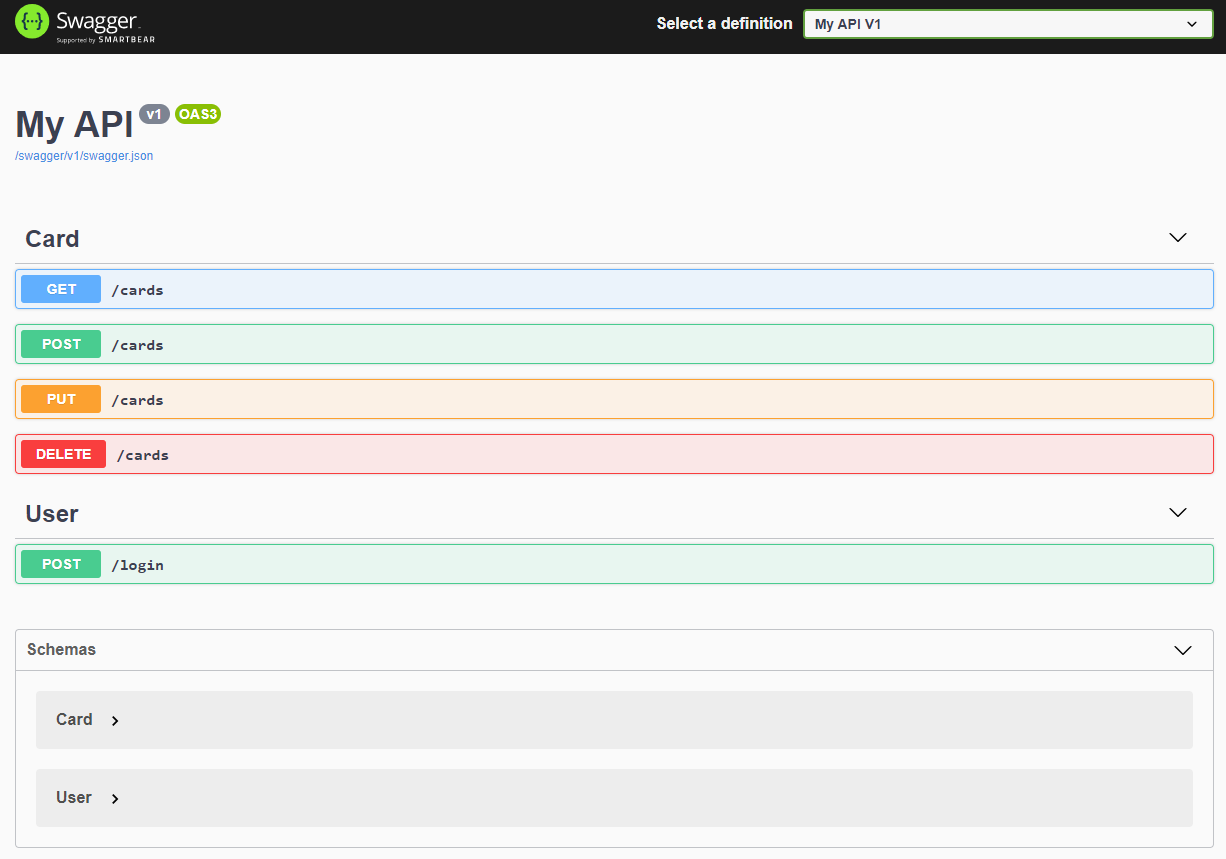
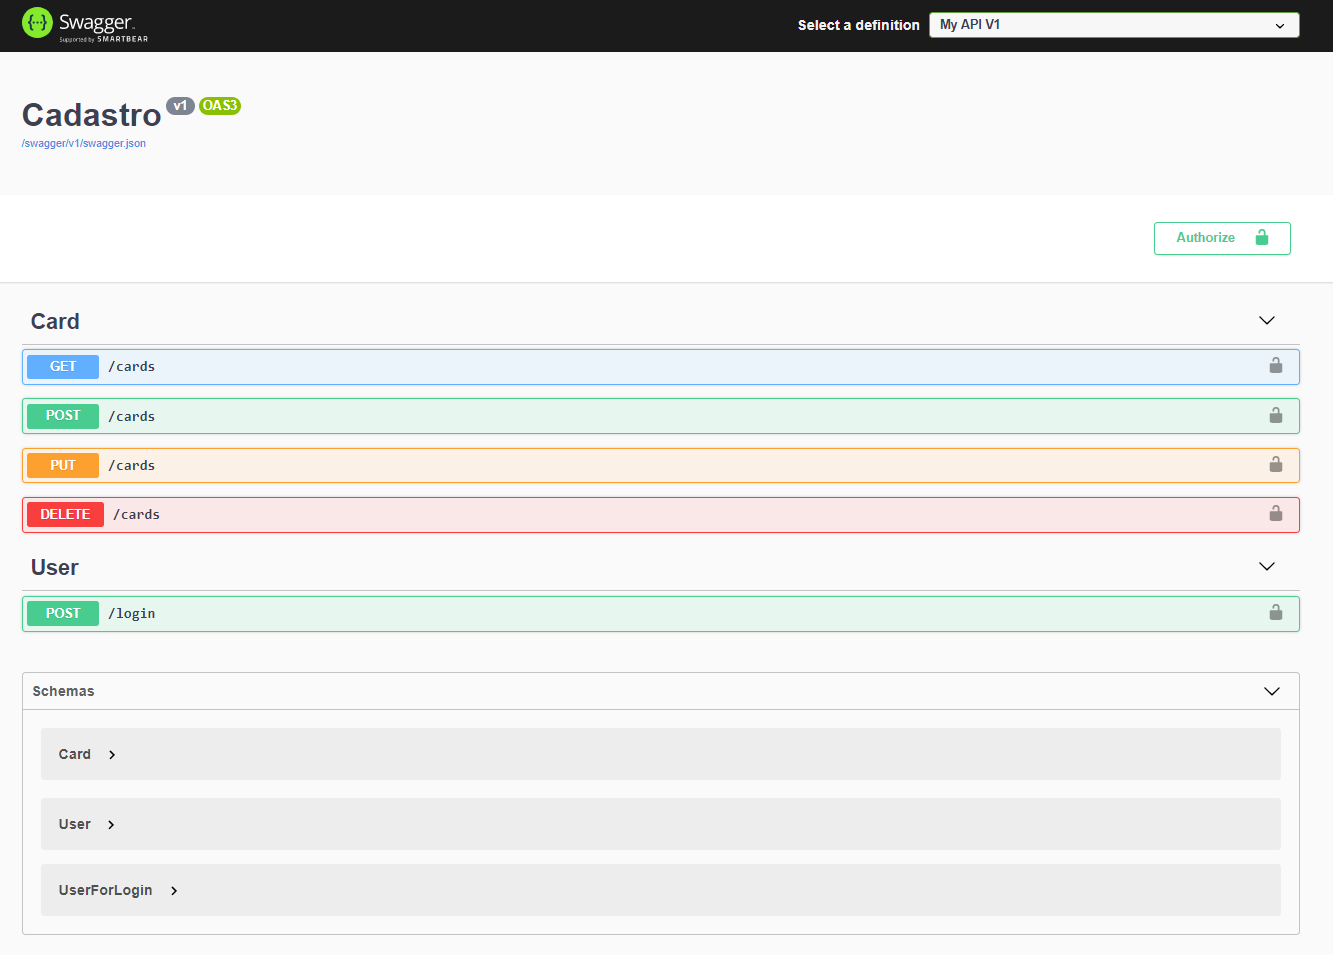
Incluindo autenticacao com JWT

diff --git a/BACK/Kanban/Startup.cs b/BACK/Kanban/Startup.cs
@@ -9,8 +9,11 @@ using Microsoft.AspNetCore.Mvc;
 using Microsoft.Extensions.Configuration;
 using Microsoft.Extensions.DependencyInjection;
 using Microsoft.Extensions.Hosting;
-using Microsoft.Extensions.Logging;
 using Microsoft.OpenApi.Models;
+using Microsoft.AspNetCore.Authentication.JwtBearer;
+using Kanban.Data;
+using System.Text;
+using Microsoft.IdentityModel.Tokens;
 
 namespace Kanban
 {
@@ -26,14 +29,65 @@ namespace Kanban
         // This method gets called by the runtime. Use this method to add services to the container.
         public void ConfigureServices(IServiceCollection services)
         {
+           
             services.AddControllers();
+            services.AddScoped<AuthRepository>();
 
+            
+          
                 // Register the Swagger generator, defining 1 or more Swagger documents
-            services.AddSwaggerGen(c =>
-            {
-                c.SwaggerDoc("v1", new OpenApiInfo { Title = "My API", Version = "v1" });
+            services.AddAuthentication (JwtBearerDefaults.AuthenticationScheme)
+                .AddJwtBearer (options => 
+                {
+                   options.TokenValidationParameters = new TokenValidationParameters
+                    {
+                        ValidateIssuerSigningKey = true,
+                        IssuerSigningKey = new SymmetricSecurityKey(Encoding.UTF8.GetBytes (Configuration["SecurityKey"])),
+                        ValidateIssuer = false,
+                        ValidateAudience = false
+                    };
+                    
+
+                    options.Events = new JwtBearerEvents {
+                        OnAuthenticationFailed = context => {
+                                Console.WriteLine ("Token inválido..:. " + context.Exception.Message);
+                                return Task.CompletedTask;
+                            },
+                            OnTokenValidated = context => {
+                                Console.WriteLine ("Toekn válido...: " + context.SecurityToken);
+                                return Task.CompletedTask;
+                            }
+                    };
+                });
+
+            services.AddMvc ().SetCompatibilityVersion (CompatibilityVersion.Version_2_2);
+            // Register the Swagger generator, defining 1 or more Swagger documents
+            services.AddSwaggerGen (c => {
+                c.SwaggerDoc ("v1", new OpenApiInfo { Title = "Cadastro", Version = "v1" });
+                // Define the OAuth2.0 scheme that's in use (i.e. Implicit Flow)
+                c.AddSecurityDefinition ("Bearer", new OpenApiSecurityScheme {
+                    Description = "JWT Authorization header using the Bearer scheme.",
+                        Name = "Authorization",
+                        In = ParameterLocation.Header,
+                        Type = SecuritySchemeType.ApiKey,
+                        Scheme = "bearer"
+                });
+
+                c.AddSecurityRequirement (new OpenApiSecurityRequirement {
+                    {
+                        new OpenApiSecurityScheme {
+                            Reference = new OpenApiReference {
+                                Type = ReferenceType.SecurityScheme,
+                                    Id = "Bearer"
+                            }
+                        }, new List<string> ()
+                    }
+                });
+
             });
         }
+
+        
 
         // This method gets called by the runtime. Use this method to configure the HTTP request pipeline.
         public void Configure(IApplicationBuilder app, IWebHostEnvironment env)
@@ -55,6 +109,8 @@ namespace Kanban
             app.UseHttpsRedirection();
 
             app.UseRouting();
+            
+            app.UseAuthentication ();
 
             app.UseAuthorization();
 

diff --git a/BACK/Kanban/Controllers/UserController.cs b/BACK/Kanban/Controllers/UserController.cs
@@ -1,18 +1,71 @@
-using System.Threading.Tasks;
-using Microsoft.AspNetCore.Mvc;
-using Kanban.Models;
 using System;
+using System.Security.Claims;
+using System.Threading.Tasks;
+using System.IdentityModel.Tokens.Jwt;
+using Microsoft.IdentityModel.Tokens;
+using Kanban.Models;
+using Microsoft.AspNetCore.Mvc;
+using Microsoft.Extensions.Configuration;
+using System.Text;
+using System.Collections.Generic;
+using Kanban.Data;
+using Kanban.Dto;
 
-namespace Kanban.Controllers
-{   
+namespace Kanban.Controllers {
+    
     [Route ("/login")]
     [ApiController]
-    public class UserController
-    {
-                [HttpPost]
-        public async Task<ActionResult<User>> Post ([FromBody] User value) {
-            return value;
+    public class UserController : ControllerBase {
+
+        private readonly IConfiguration _config;
+        private readonly AuthRepository _repository;
+
+        public UserController (IConfiguration config , AuthRepository repository) {
+            this._repository = repository;          
+            this._config = config;
         }
-        
+        [HttpPost]
+        public async Task<ActionResult<User>> Post ([FromBody] UserForLogin value) {
+
+            var result = await _repository.Login (value.login, value.senha);
+
+            var userToCreate = new User {
+                login = value.login,
+                senha = value.senha,
+                Id = 1
+            };
+            if (result.login == userToCreate.login && result.senha == userToCreate.senha ) {
+                return Ok (new {
+                    token = GenerateJwtToken (userToCreate).Result
+                });
+            }
+
+            return Unauthorized ();
+          
+        }
+
+        private async Task<string> GenerateJwtToken (User user) {
+            var claims = new List<Claim> {
+                new Claim (ClaimTypes.NameIdentifier, user.Id.ToString ()),
+                new Claim (ClaimTypes.Name, user.login)
+            };
+
+            var key = new SymmetricSecurityKey (Encoding.UTF8
+                .GetBytes (_config.GetSection ("SecurityKey").Value));
+
+            var creds = new SigningCredentials (key, SecurityAlgorithms.HmacSha512Signature);
+
+            var tokenDescriptor = new SecurityTokenDescriptor {
+                Subject = new ClaimsIdentity (claims),
+                Expires = DateTime.Now.AddDays (1),
+                SigningCredentials = creds
+            };
+
+            var tokenHandler = new JwtSecurityTokenHandler ();
+
+            var token = tokenHandler.CreateToken (tokenDescriptor);
+
+            return tokenHandler.WriteToken (token);
+        }
     }
 }

diff --git a/BACK/Kanban/Data/AuthRepository.cs b/BACK/Kanban/Data/AuthRepository.cs
@@ -1,0 +1,44 @@
+using System.Threading.Tasks;
+using Kanban.Models;
+
+namespace Kanban.Data
+{
+    public class AuthRepository :   IAuthRepository
+    {
+       /* private readonly DataContext _context;
+        public AuthRepository(DataContext context)
+        {
+            _context = context;
+        }*/
+        public async Task<User> Login(string username, string password)
+        {
+           /* var user = await _context.Users.FirstOrDefaultAsync(x => x.UserName == username);
+
+            if (user == null)
+                return null;
+            
+            // if (!VerifyPasswordHash(password, user.PasswordHash, user.PasswordSalt))
+            //     return null;
+
+            return user;*/
+            //  { "login" : "letscode", "senha":"lets@123" }
+             return new User {
+                login = "letscode",
+                senha = "lets@123"
+            };
+        }
+    
+            public async Task<User> Register(User username, string password)
+        {
+
+             return new User {
+                login = "letscode",
+                senha = "lets@123"
+            };
+        }
+        public async Task<bool> UserExists(string username)
+        {
+            return true;
+        }
+    }
+}

diff --git a/BACK/Kanban/Data/IAuthRepository.cs b/BACK/Kanban/Data/IAuthRepository.cs
@@ -1,0 +1,11 @@
+using System.Threading.Tasks;
+using Kanban.Models;
+
+namespace Kanban.Data {
+
+    public interface IAuthRepository {
+        Task<User> Register (User user, string password);
+        Task<User> Login (string username, string password);
+        Task<bool> UserExists (string username);
+    }
+}

diff --git a/BACK/Kanban/Models/User.cs b/BACK/Kanban/Models/User.cs
@@ -1,6 +1,8 @@
+using Microsoft.AspNetCore.Identity;
+
 namespace Kanban.Models
 {
-    public class User
+    public class User : IdentityUser<int>
     {
         public string login { get; set; }
 

diff --git a/BACK/Kanban/Dto/UserForLogin.cs b/BACK/Kanban/Dto/UserForLogin.cs
@@ -1,0 +1,9 @@
+namespace Kanban.Dto
+{
+    public class UserForLogin
+    {
+        public string login { get; set; }
+
+        public string senha { get; set; }
+    }
+}

diff --git a/BACK/Kanban/Controllers/CardController.cs b/BACK/Kanban/Controllers/CardController.cs
@@ -8,6 +8,7 @@ namespace Kanban.Controllers
 {   
     [Route ("/cards")]
     [ApiController]
+    [Authorize ()]
     public class CardController
     {
 

diff --git a/BACK/Kanban/README.md b/BACK/Kanban/README.md
@@ -7,7 +7,7 @@ Olá! Seja bem vindo ;)
 2. [Como executar essa aplicação](#Como-executar-essa-aplicacao)
 
 ## Projeto e Conteúdo
-Este repositório contém uma implementação
+Este repositório contém uma implementação para backend de um sistema de gerenciamento Kanban
 
 ## Como executar essa aplicação
 Para executar essa aplicação, primeiro é necessário instalar o .NET Core. Depois disso, você deve seguir os passos abaixo:
